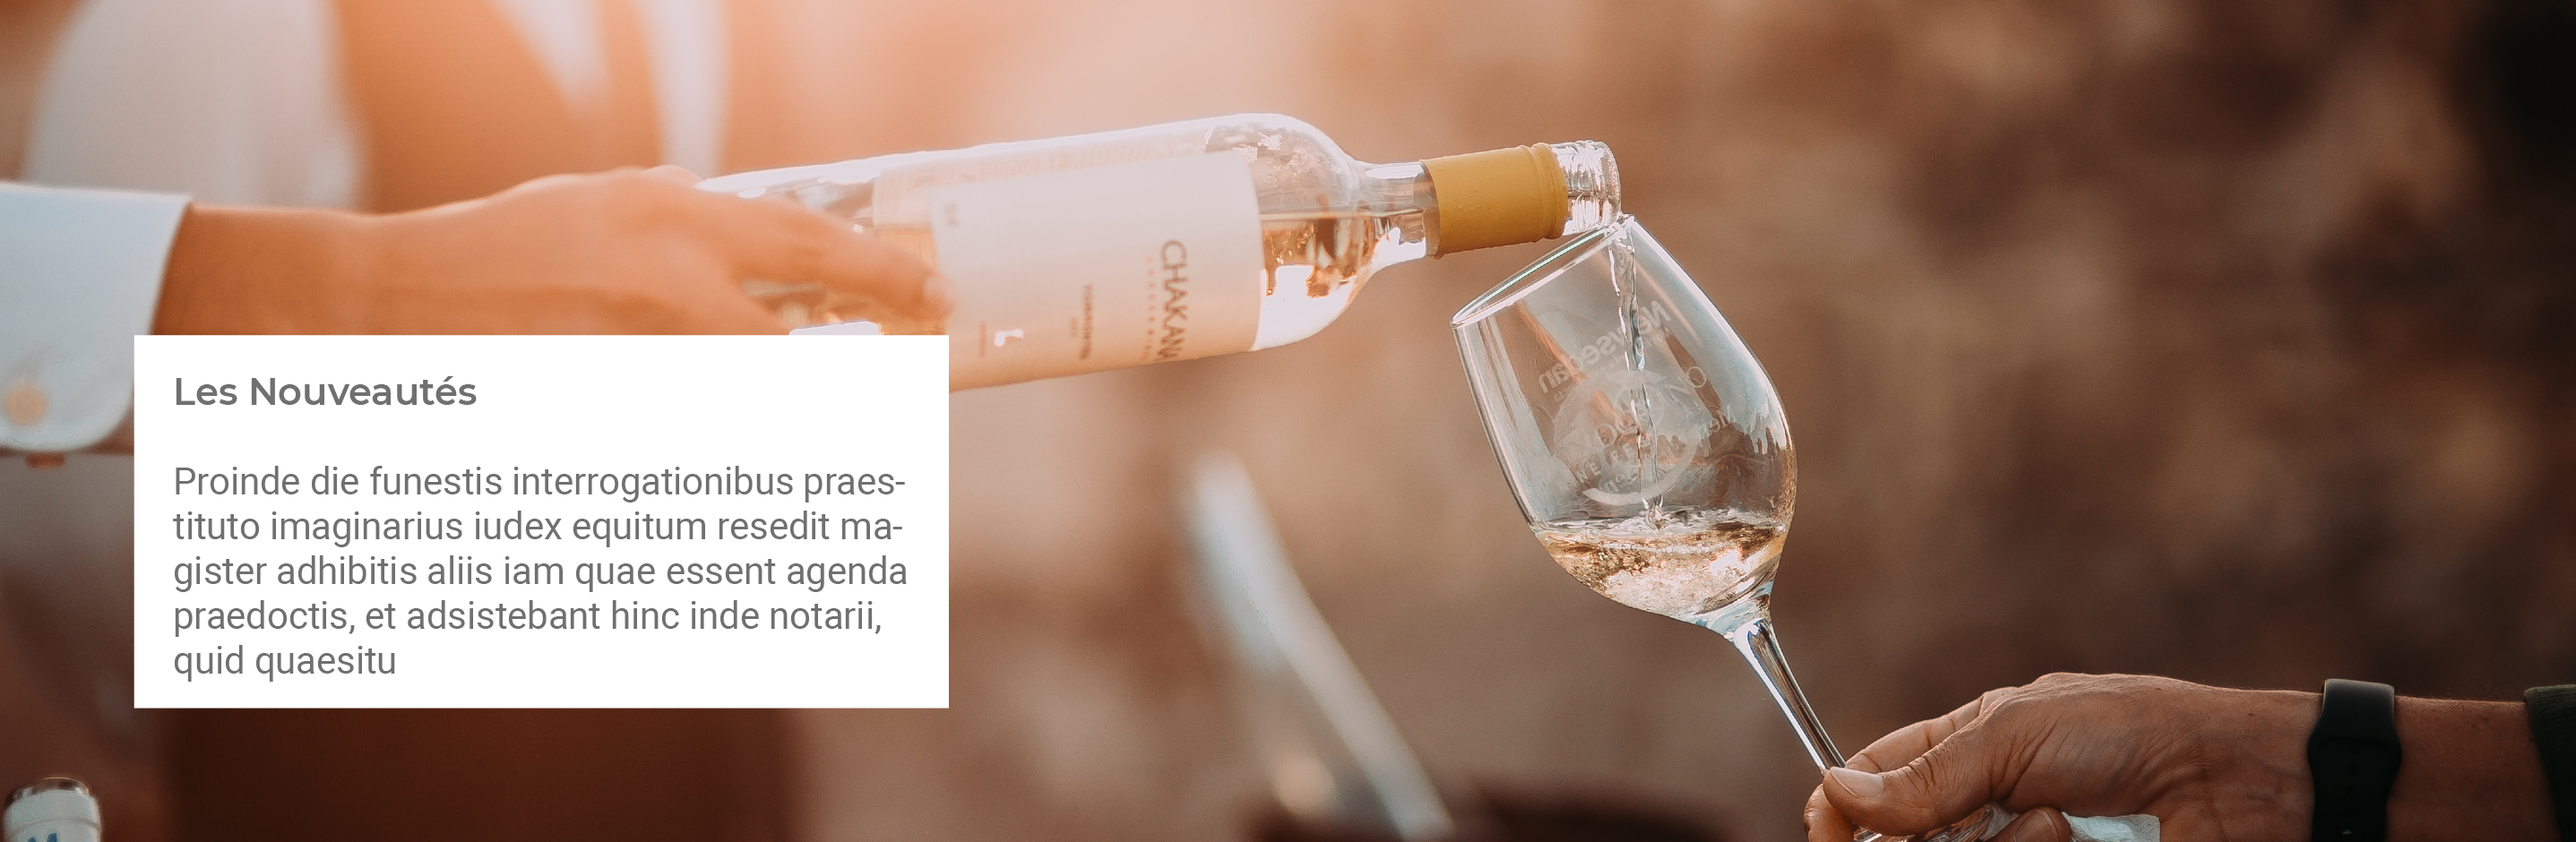
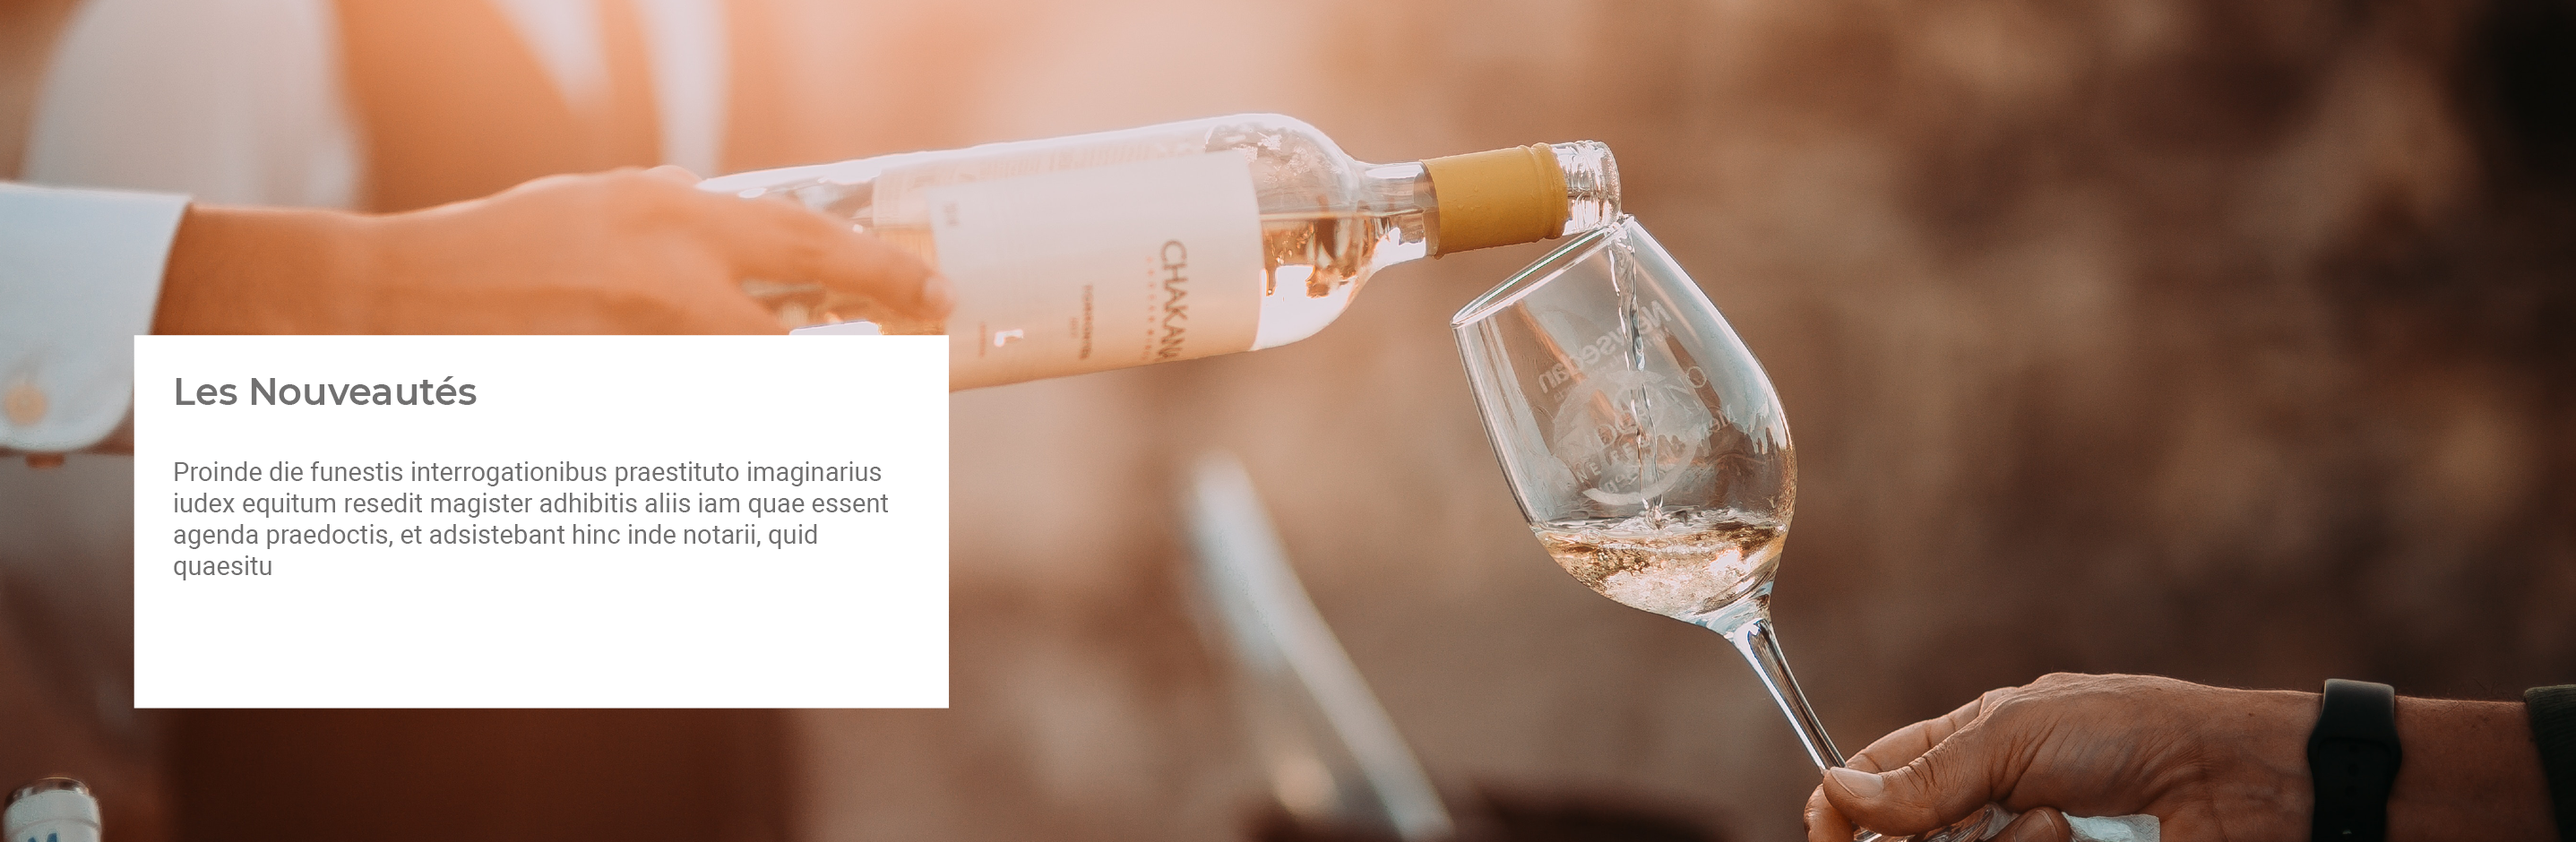
navbars + images ordonnées

Changed region(s): [[0.0619, 0.5553, 0.3715, 0.8021]]

diff --git a/resources/js/app.js b/resources/js/app.js
@@ -28,7 +28,7 @@ window.JQuery = require('jquery')
 Vue.use(BootstrapVue);
 
 
-
+//Home
 Vue.component('nav-bar-login', require('./components/NavBarLogin.vue').default);
 Vue.component('nav-bar-logout', require('./components/NavBarLogout.vue').default);
 Vue.component('menu-home', require('./components/Menu.vue').default);
@@ -38,7 +38,17 @@ Vue.component('week-selection-card', require('./components/CarteSelectionSemaine
 Vue.component('week-selection-producer', require('./components/ProducteurSelectionSemaine.vue').default);
 Vue.component('history-bar', require('./components/HistoryBar.vue').default);
 
-Vue.component('nav-bar-nouveaute', require('./components/NavBarNouveaute.vue').default);
+//Produits Nouveautés
+Vue.component('menu-nouveaute', require('./components/MenuNouveaute.vue').default);
+
+//Produits Primeurs
+Vue.component('menu-primeur', require('./components/MenuPrimeur.vue').default);
+
+//Produits Promos
+Vue.component('menu-promo', require('./components/MenuPromo.vue').default);
+
+//Produits Catalogue
+Vue.component('menu-produit', require('./components/MenuProduit.vue').default);
 
 //Filtre produits et formulaire de contact 
 Vue.component('product-filter', require('./components/ProductFilter.vue').default);

diff --git a/resources/style/style.css b/resources/style/style.css
@@ -1,5 +1,5 @@
     @import url(http://fonts.googleapis.com/css?family=Montserrat:400,700);
-    @import url(https://fonts.googleapis.com/css?family=Roboto:100);
+    @import url(https://fonts.googleapis.com/css?family=Roboto:200);
     body {
         font-family: 'Montserrat', sans-serif;
     }

diff --git a/resources/js/components/MenuNouveaute.vue b/resources/js/components/MenuNouveaute.vue
@@ -1,7 +1,7 @@
  <template>
   <div class="container">
     <div class="homepageImg">
-      <img class="img-fluid" :src="'./images/home.jpg'">
+      <img class="img-fluid" :src="'./images/nouveaute.png'">
     </div>
 
     <div class="nav-scroller py-3 mb-2">

diff --git a/resources/js/components/MenuPrimeur.vue b/resources/js/components/MenuPrimeur.vue
@@ -1,7 +1,7 @@
  <template>
   <div class="container">
     <div class="homepageImg">
-      <img class="img-fluid" :src="'./images/home.jpg'">
+      <img class="img-fluid" :src="'./images/primeur.png'">
     </div>
 
     <div class="nav-scroller py-3 mb-2">

diff --git a/resources/js/components/MenuProduit.vue b/resources/js/components/MenuProduit.vue
@@ -1,7 +1,7 @@
  <template>
   <div class="container">
     <div class="homepageImg">
-      <img class="img-fluid" :src="'./images/home.jpg'">
+      <img class="img-fluid" :src="'./images/product.png'">
     </div>
 
     <div class="nav-scroller py-3 mb-2">

diff --git a/resources/js/components/MenuPromo.vue b/resources/js/components/MenuPromo.vue
@@ -1,7 +1,7 @@
  <template>
   <div class="container">
     <div class="homepageImg">
-      <img class="img-fluid" :src="'./images/home.jpg'">
+      <img class="img-fluid" :src="'./images/promo.png'">
     </div>
 
     <div class="nav-scroller py-3 mb-2">

diff --git a/resources/views/nouveautes.blade.php b/resources/views/nouveautes.blade.php
@@ -14,7 +14,15 @@
     <body>
         <div id="app">
             <div class="container">
-                <nav-bar-nouveaute></nav-bar-nouveaute>
+            @if(Auth::check())
+            <h2>Connecté</h2>
+                <nav-bar-login></nav-bar-login>
+                @else
+                <h2>Déconnecté</h2>
+                <nav-bar-logout></nav-bar-logout>
+                
+                @endif
+                <menu-nouveaute></menu-nouveaute>
                 <product-filter></product-filter>
                 <carte-produit></carte-produit>
                 <footer-bar></footer-bar>

diff --git a/resources/views/primeurs.blade.php b/resources/views/primeurs.blade.php
@@ -14,7 +14,15 @@
     <body>
         <div id="app">
             <div class="container">
-                <nav-bar></nav-bar>
+            @if(Auth::check())
+            <h2>Connecté</h2>
+                <nav-bar-login></nav-bar-login>
+                @else
+                <h2>Déconnecté</h2>
+                <nav-bar-logout></nav-bar-logout>
+                
+                @endif
+                <menu-primeur></menu-primeur>
                 <product-filter></product-filter>
                 <carte-produit></carte-produit>
                 <footer-bar></footer-bar>

diff --git a/resources/views/produits.blade.php b/resources/views/produits.blade.php
@@ -14,7 +14,15 @@
     <body>
         <div id="app">
             <div class="container">
-                <nav-bar></nav-bar>
+            @if(Auth::check())
+            <h2>Connecté</h2>
+                <nav-bar-login></nav-bar-login>
+                @else
+                <h2>Déconnecté</h2>
+                <nav-bar-logout></nav-bar-logout>
+                
+                @endif
+                <menu-produit></menu-produit>
                 <product-filter></product-filter>
                 <carte-produit></carte-produit>
                 <footer-bar></footer-bar>

diff --git a/resources/views/promos.blade.php b/resources/views/promos.blade.php
@@ -14,7 +14,15 @@
     <body>
         <div id="app">
             <div class="container">
-                <nav-bar></nav-bar>
+            @if(Auth::check())
+            <h2>Connecté</h2>
+                <nav-bar-login></nav-bar-login>
+                @else
+                <h2>Déconnecté</h2>
+                <nav-bar-logout></nav-bar-logout>
+                
+                @endif
+                <menu-promo></menu-promo>
                 <product-filter></product-filter>
                 <carte-produit></carte-produit>
                 <footer-bar></footer-bar>

diff --git a/resources/views/index.blade.php b/resources/views/index.blade.php
@@ -22,7 +22,7 @@
                 <nav-bar-logout></nav-bar-logout>
                 
                 @endif
-               <menu-home></menu-home>
+                <menu-home></menu-home>
                 <week-selection></week-selection>
                 <week-selection-card :vins='{{ $vins }}'></week-selection-card>
                 <week-selection-producer></week-selection-producer>

diff --git a/resources/views/productPage.blade.php b/resources/views/productPage.blade.php
@@ -23,8 +23,6 @@
             <selection-card class="mt-5" ></selection-card>
 
 
-
-
             <footer-bar></footer-bar>
             </div>
         </div>
